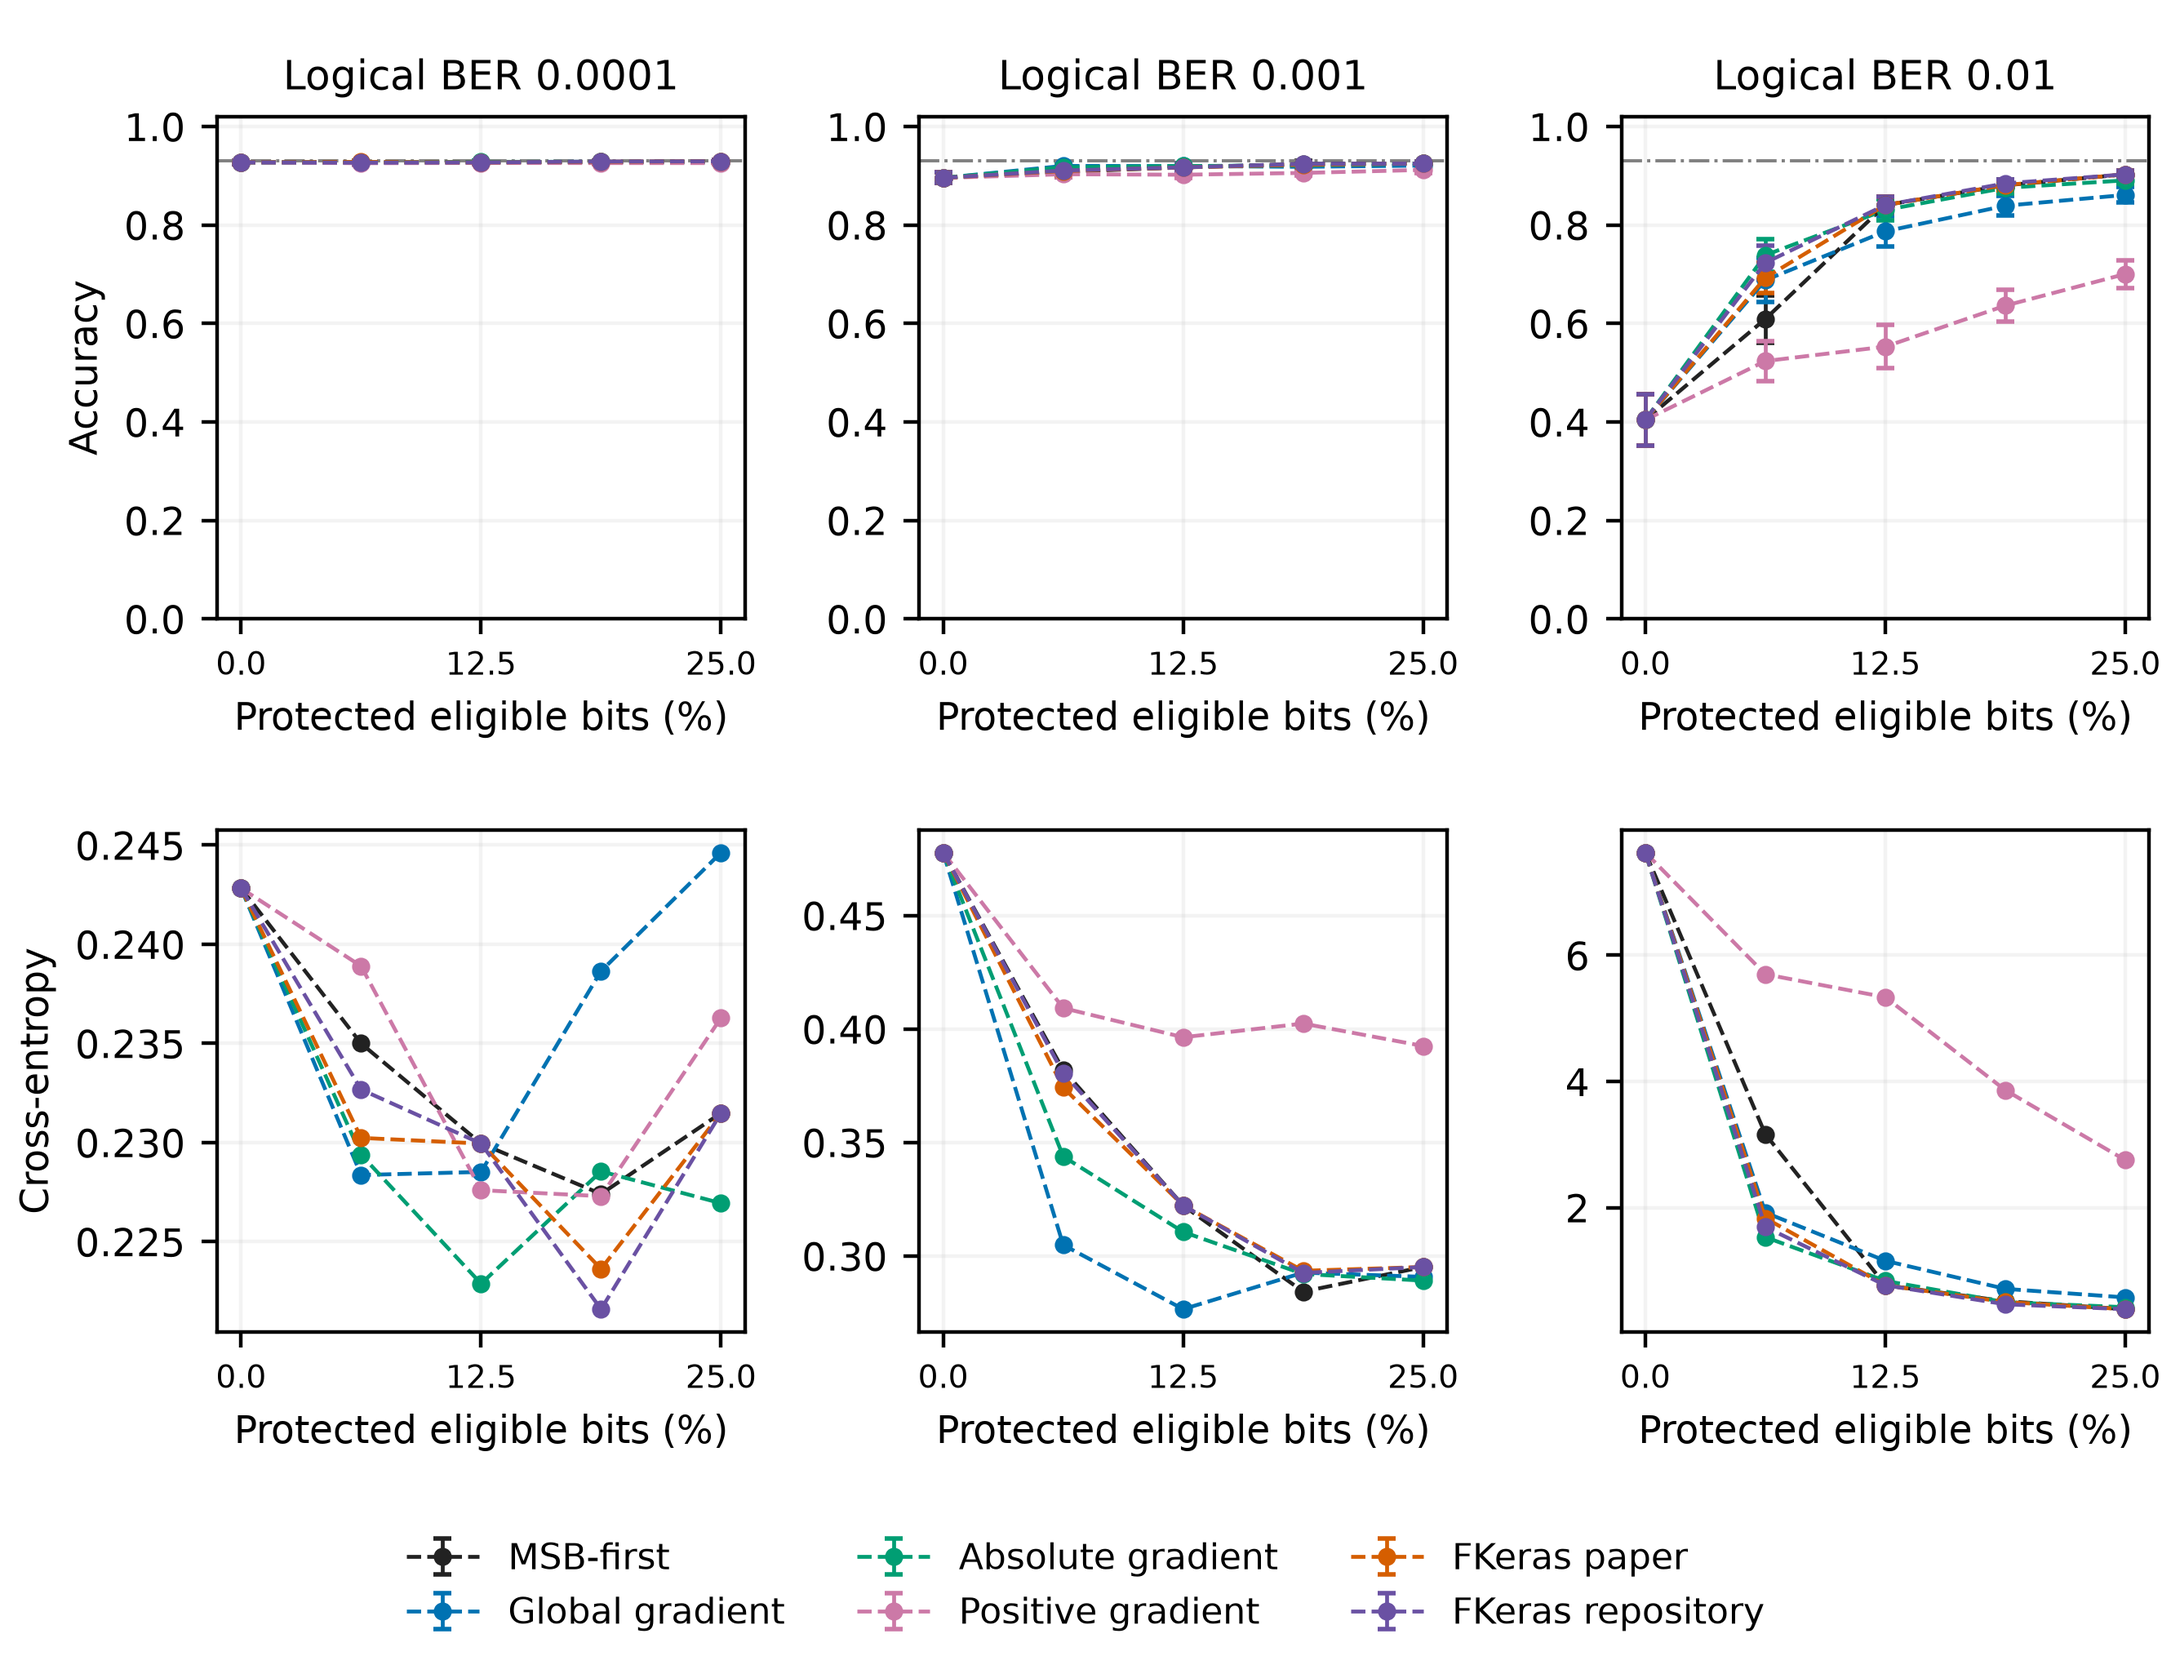
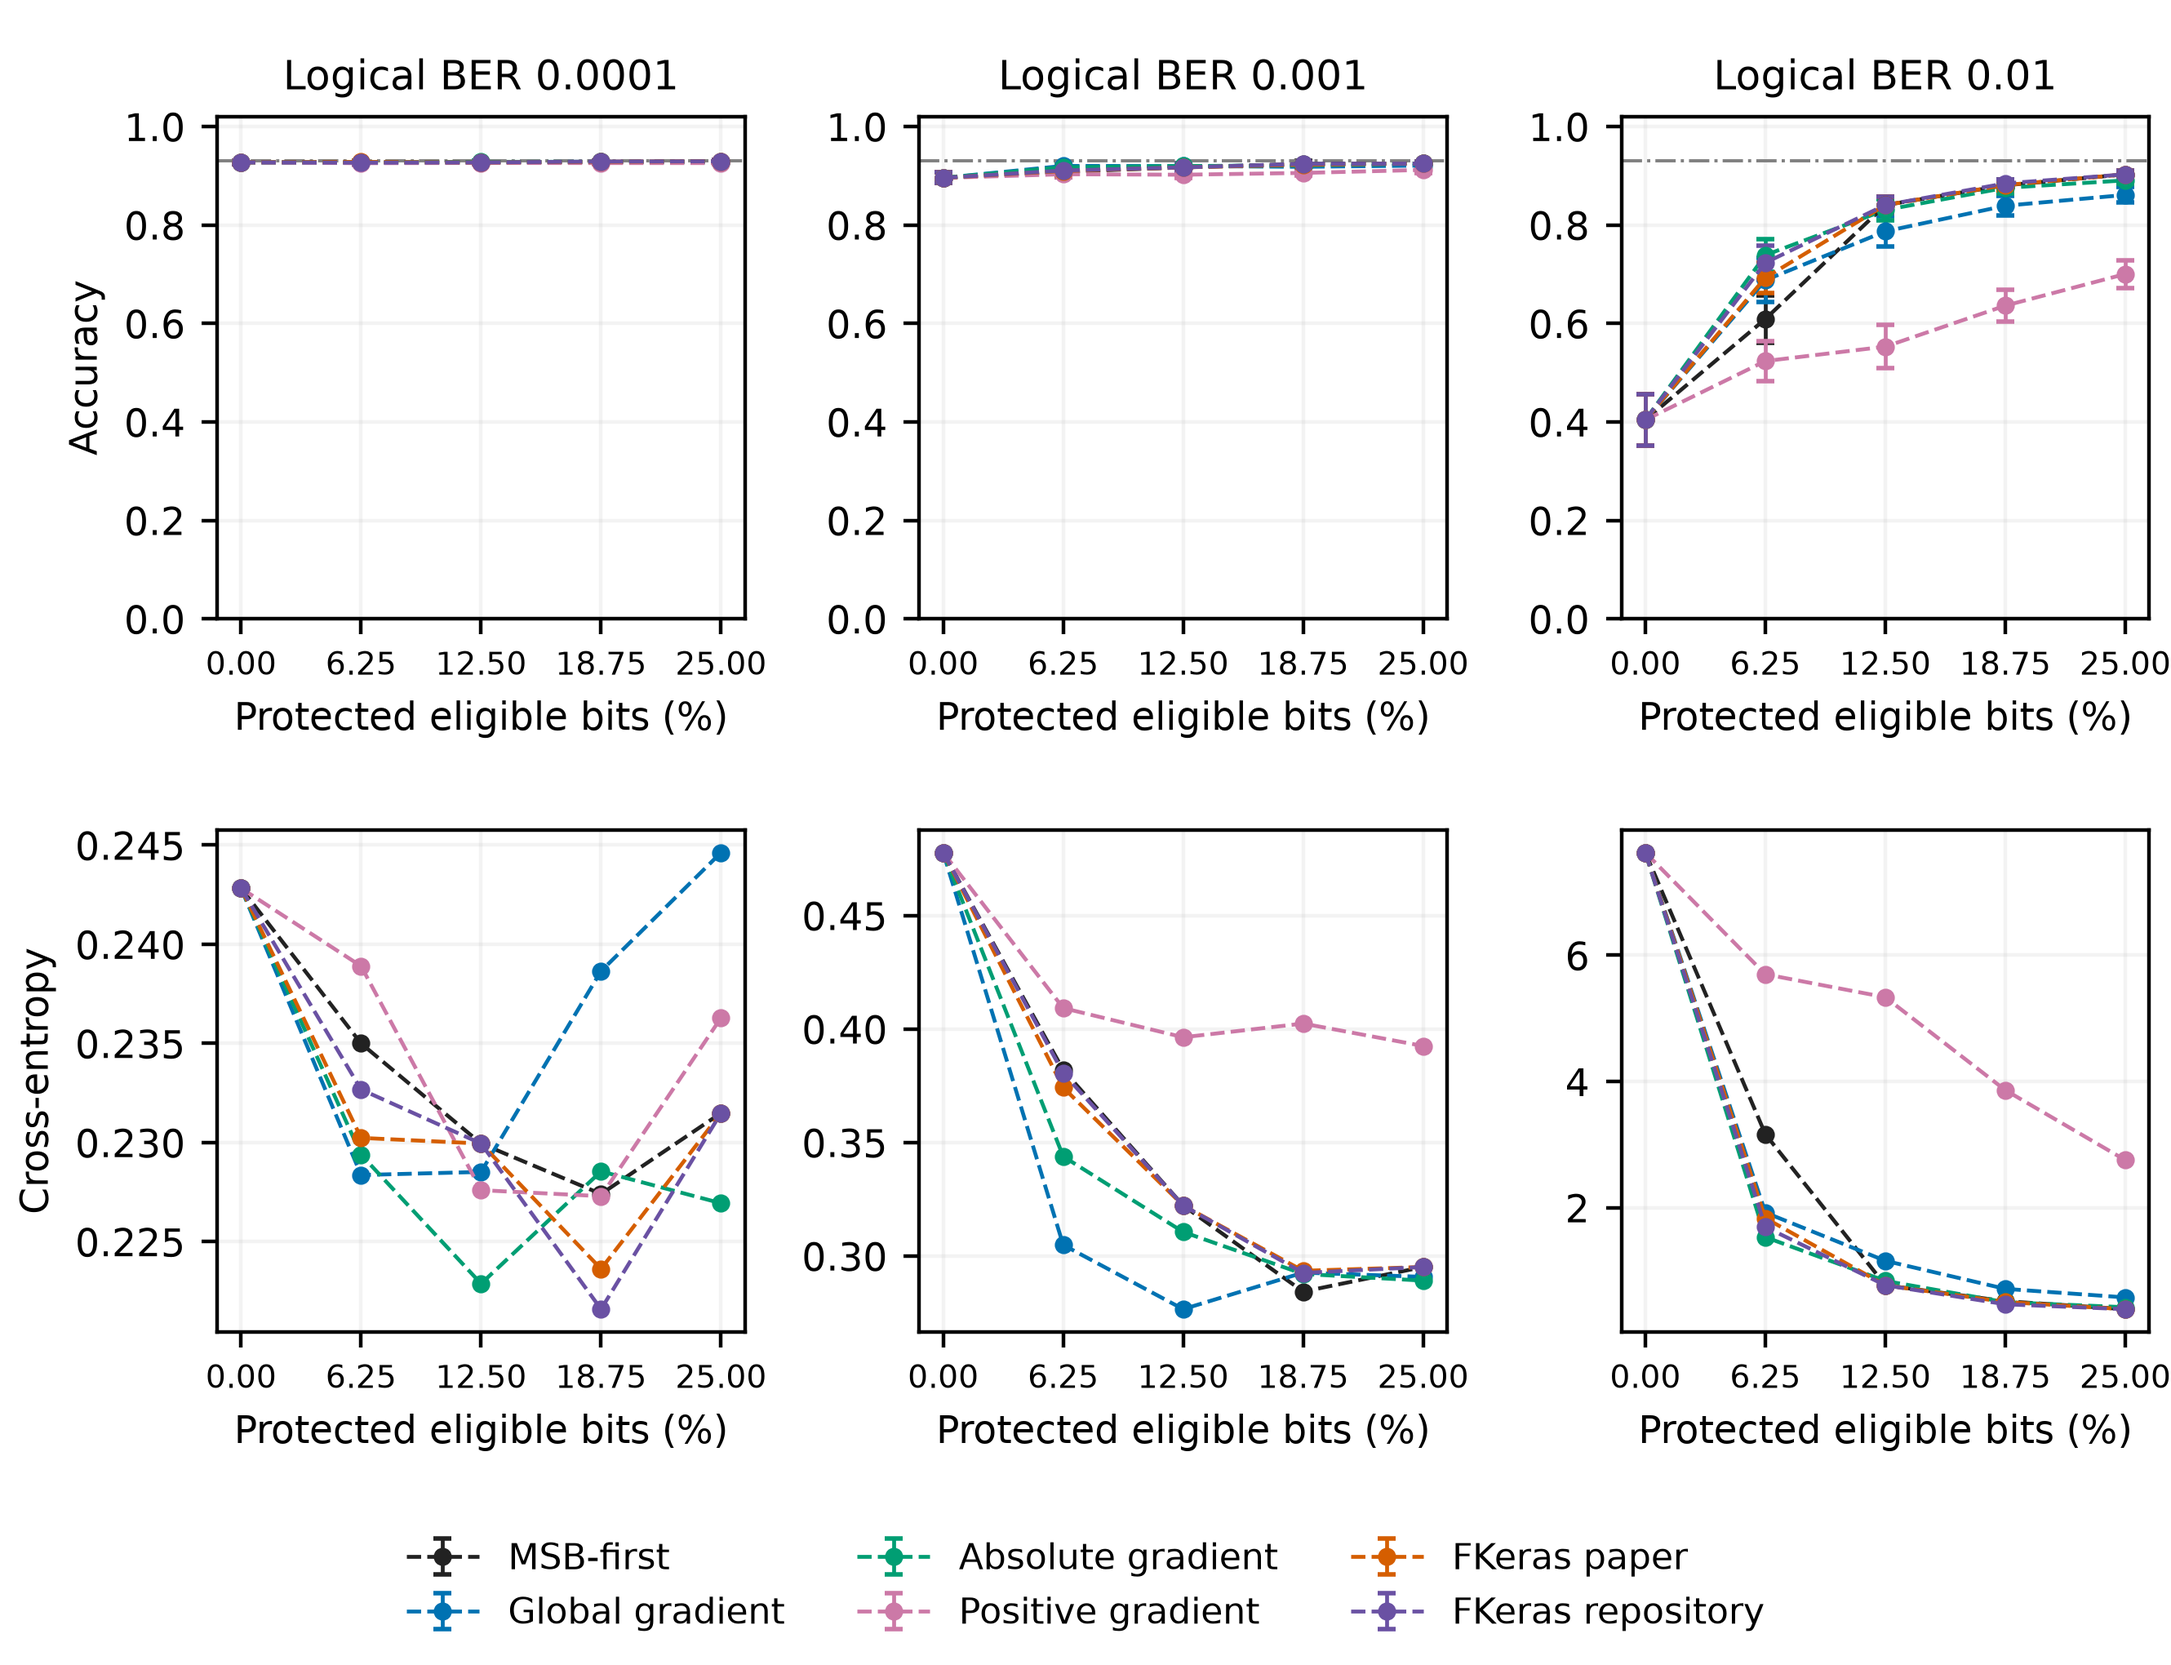
Clarify partial-tier figure labels and export instructions

diff --git a/publications/tecs_software_review_2026-11-02/build_evidence.py b/publications/tecs_software_review_2026-11-02/build_evidence.py
@@ -163,7 +163,7 @@ def main():
             ax.tick_params(axis='x',labelsize=7)
         axs[0,col].set_title(f'Logical BER {prob:g}')
         for ax in axs[:,col]:
-            ax.set_xlabel('Protected eligible bits (%)');ax.set_xticks([0,12.5,25]);ax.grid(alpha=.15)
+            ax.set_xlabel('Protected eligible bits (%)');ax.grid(alpha=.15)
     axs[0,0].set_ylabel('Accuracy');axs[1,0].set_ylabel('Cross-entropy')
     h,l=axs[0,0].get_legend_handles_labels();fig.legend(h,l,loc='lower center',ncol=3,fontsize=8,frameon=False)
     fig.subplots_adjust(left=.10,right=.99,bottom=.20,top=.93,hspace=.42,wspace=.33)

diff --git a/publications/tecs_software_review_2026-11-02/README.md b/publications/tecs_software_review_2026-11-02/README.md
@@ -91,3 +91,31 @@ The expanded-benchmark gate is incomplete: one streaming short fixture passed
 repeatable protection comparisons, VWW is provenance-blocked, and transformer
 assets/backend are not available. These engineering checks are not added to the
 paper as population-wide efficacy claims.
+
+## Archives and Mac download
+
+After compiling, create a new immutable delivery directory:
+
+```bash
+cd /projects/netsurf/manuelbv/workspace/implementation-worktrees/paper1-expanded
+/mnt/raid0/ml/conda_envs/manuelbv/envs/netsurf/bin/python \
+ publications/tecs_software_review_2026-11-02/package_review.py \
+ --output workspace/exports/NetSuRF_Paper1_Unified_2026-11-02
+```
+
+The packager refuses to overwrite an existing delivery. The review ZIP contains
+the PDF, Overleaf source, numerical figure data/provenance, claim matrix,
+adversarial review, campaign configurations/scripts, all18 ledger and both
+bounded streaming bundles. It does not contain all multi-gigabyte historical
+prediction files or shared datasets/checkpoints. The source manifest tells the
+researcher exactly which historical records were consumed.
+
+On the Mac (use the configured Kona SSH alias):
+
+```bash
+scp manuelbv@kona:/projects/netsurf/manuelbv/workspace/implementation-worktrees/paper1-expanded/workspace/exports/NetSuRF_Paper1_Unified_2026-11-02/NetSuRF_Software_Review_Package.zip ~/Downloads/
+scp manuelbv@kona:/projects/netsurf/manuelbv/workspace/implementation-worktrees/paper1-expanded/workspace/exports/NetSuRF_Paper1_Unified_2026-11-02/NetSuRF_Software_Overleaf.zip ~/Downloads/
+```
+
+For future production bundles the one-shot scripts create **both** compact and
+full-evidence ZIPs and print/save their own exact download commands.
